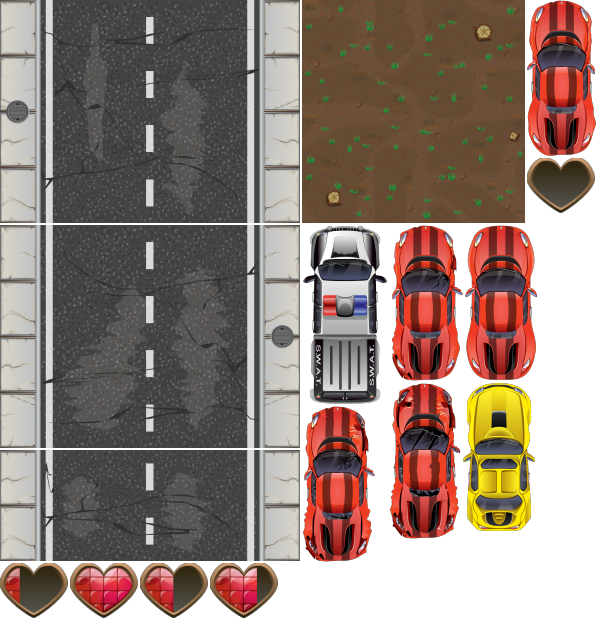
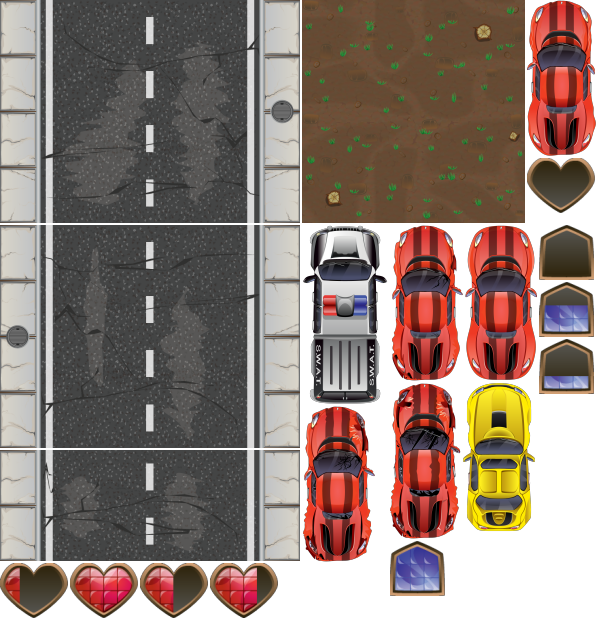
fixed: 9276e7e3af Task: implement "gear" indicator

diff --git a/OaksleepCityRacing/Sources/road/StaticElementsKeeper.cpp b/OaksleepCityRacing/Sources/road/StaticElementsKeeper.cpp
@@ -21,12 +21,19 @@ static const string kLifeWidgetSprites[kLifeWidgetMax] = {
   "ocr_game/ui_road/hp_3", "ocr_game/ui_road/hp_4"
 };
 
+static const int kGearIndicatorMax = 4;
+static const string kGearIndicatorSprites[kGearIndicatorMax] = {
+  "ocr_game/ui_road/gear_1", "ocr_game/ui_road/gear_2",
+  "ocr_game/ui_road/gear_3", "ocr_game/ui_road/gear_4",
+};
+
 // . . . . . . . . . . . . . . . . . . . . . . . . . . . . . . . . . . . . . . . . . . . . . . . .
 
 StaticElementsKeeper::StaticElementsKeeper() {
   camera = nullptr;
 
   lifesSprite = nullptr;
+  gearSprite = nullptr;
 }
 
 // . . . . . . . . . . . . . . . . . . . . . . . . . . . . . . . . . . . . . . . . . . . . . . . .
@@ -54,6 +61,24 @@ StaticElementsKeeper* StaticElementsKeeper::create(Scene* roadScene, shared_ptr<
 
 //  pRet->autorelease();
   return pRet;
+}
+
+// . . . . . . . . . . . . . . . . . . . . . . . . . . . . . . . . . . . . . . . . . . . . . . . .
+
+bool StaticElementsKeeper::initGearIndicator(Scene* roadScene) {
+  gearSprite = Sprite::createWithSpriteFrameName(kGearIndicatorSprites[0]);
+  if (gearSprite == nullptr) {
+    C6_W2(c6, "Failed to open: ", kGearIndicatorSprites[0]);
+    return false;
+  }
+
+  const Size rscs = roadScene->getContentSize();
+  gearSprite->setAnchorPoint(Vec2(1,1));
+  gearSprite->setPosition(rscs.width,rscs.height);
+
+  roadScene->addChild(gearSprite, kRoadSceneZO.gearIndicator);
+
+  return true;
 }
 
 // . . . . . . . . . . . . . . . . . . . . . . . . . . . . . . . . . . . . . . . . . . . . . . . .
@@ -87,6 +112,10 @@ bool StaticElementsKeeper::initSelf(cocos2d::Scene* roadScene) {
     return false;
   }
 
+  if (!initGearIndicator(roadScene)) {
+    return false;
+  }
+
   if (!initLifesWidget(roadScene)) {
     return false;
   }
@@ -101,6 +130,7 @@ void StaticElementsKeeper::doMove(const std::pair<float, float> moveInfo) {
   const float timeInterval = moveInfo.second;
 
   doMoveCamera(moveDistance, timeInterval);
+  doMoveGearIndicator(moveDistance, timeInterval);
   doMoveLifeIndicator(moveDistance, timeInterval);
 }
 
@@ -120,6 +150,19 @@ void StaticElementsKeeper::doMoveCamera(const float moveDistance, const float ti
 
 // . . . . . . . . . . . . . . . . . . . . . . . . . . . . . . . . . . . . . . . . . . . . . . . .
 
+void StaticElementsKeeper::doMoveGearIndicator(const float moveDistance, const float timeInterval) {
+  gearSprite->stopAllActionsByTag(kMoveActionTag);
+
+  const Vec2 currentPos = gearSprite->getPosition();
+  Vec2 newPos = Vec2(currentPos.x, currentPos.y + moveDistance);
+
+  MoveTo* mt = MoveTo::create(timeInterval, newPos);
+  mt->setTag(kMoveActionTag);
+  gearSprite->runAction(mt);
+}
+
+// . . . . . . . . . . . . . . . . . . . . . . . . . . . . . . . . . . . . . . . . . . . . . . . .
+
 void StaticElementsKeeper::doMoveLifeIndicator(const float moveDistance, const float timeInterval) {
   lifesSprite->stopAllActionsByTag(kMoveActionTag);
 
@@ -129,6 +172,21 @@ void StaticElementsKeeper::doMoveLifeIndicator(const float moveDistance, const f
   MoveTo* mt = MoveTo::create(timeInterval, newPos);
   mt->setTag(kMoveActionTag);
   lifesSprite->runAction(mt);
+}
+
+// . . . . . . . . . . . . . . . . . . . . . . . . . . . . . . . . . . . . . . . . . . . . . . . .
+
+void StaticElementsKeeper::setGearIndicator(const int value) {
+  const int idx = value -1;
+  if ((idx<0)||(idx >= kGearIndicatorMax)) {
+    return;
+  }
+
+  if (gearSprite == nullptr) {
+    return;    // impossible
+  }
+
+  gearSprite->setSpriteFrame(kGearIndicatorSprites[idx]);
 }
 
 // . . . . . . . . . . . . . . . . . . . . . . . . . . . . . . . . . . . . . . . . . . . . . . . .

diff --git a/OaksleepCityRacing/Sources/road/StaticElementsKeeper.h b/OaksleepCityRacing/Sources/road/StaticElementsKeeper.h
@@ -15,7 +15,8 @@ public:
   static StaticElementsKeeper* create(cocos2d::Scene* roadScene,
                                       std::shared_ptr<SixCatsLogger> c6);
 
-  void setLifesCounter(const int value);
+  void setLifesCounter(const int value);// expects values 0..4, lower is more dead
+  void setGearIndicator(const int value); // expects 1..4, large is faster
 
 //  void setCamera(cocos2d::Camera* camera);
   void doMove(const std::pair<float, float> moveInfo);
@@ -26,12 +27,15 @@ protected:
 //  virtual ~StaticElementsKeeper();
 
   bool initSelf(cocos2d::Scene* roadScene);
+  bool initGearIndicator(cocos2d::Scene* roadScene);
   bool initLifesWidget(cocos2d::Scene* roadScene);
 
   void doMoveCamera(const float moveDistance, const float timeInterval);
+  void doMoveGearIndicator(const float moveDistance, const float timeInterval);
   void doMoveLifeIndicator(const float moveDistance, const float timeInterval);
 
   cocos2d::Sprite* lifesSprite;
+  cocos2d::Sprite* gearSprite;
 
   cocos2d::Camera* camera;
 };

diff --git a/OaksleepCityRacing/Sources/road/PlayerCarNode.cpp b/OaksleepCityRacing/Sources/road/PlayerCarNode.cpp
@@ -315,6 +315,7 @@ bool PlayerCarNode::setGearDown() {
 
   currentGear = currentGear -1;
   doMove();
+  staticElementsKeeper->setGearIndicator(currentGear);
 
   return true;
 }
@@ -327,8 +328,8 @@ bool PlayerCarNode::setGearUp() {
   }
 
   currentGear = currentGear +1;
-
   doMove();
+  staticElementsKeeper->setGearIndicator(currentGear);
 
   return true;
 }
